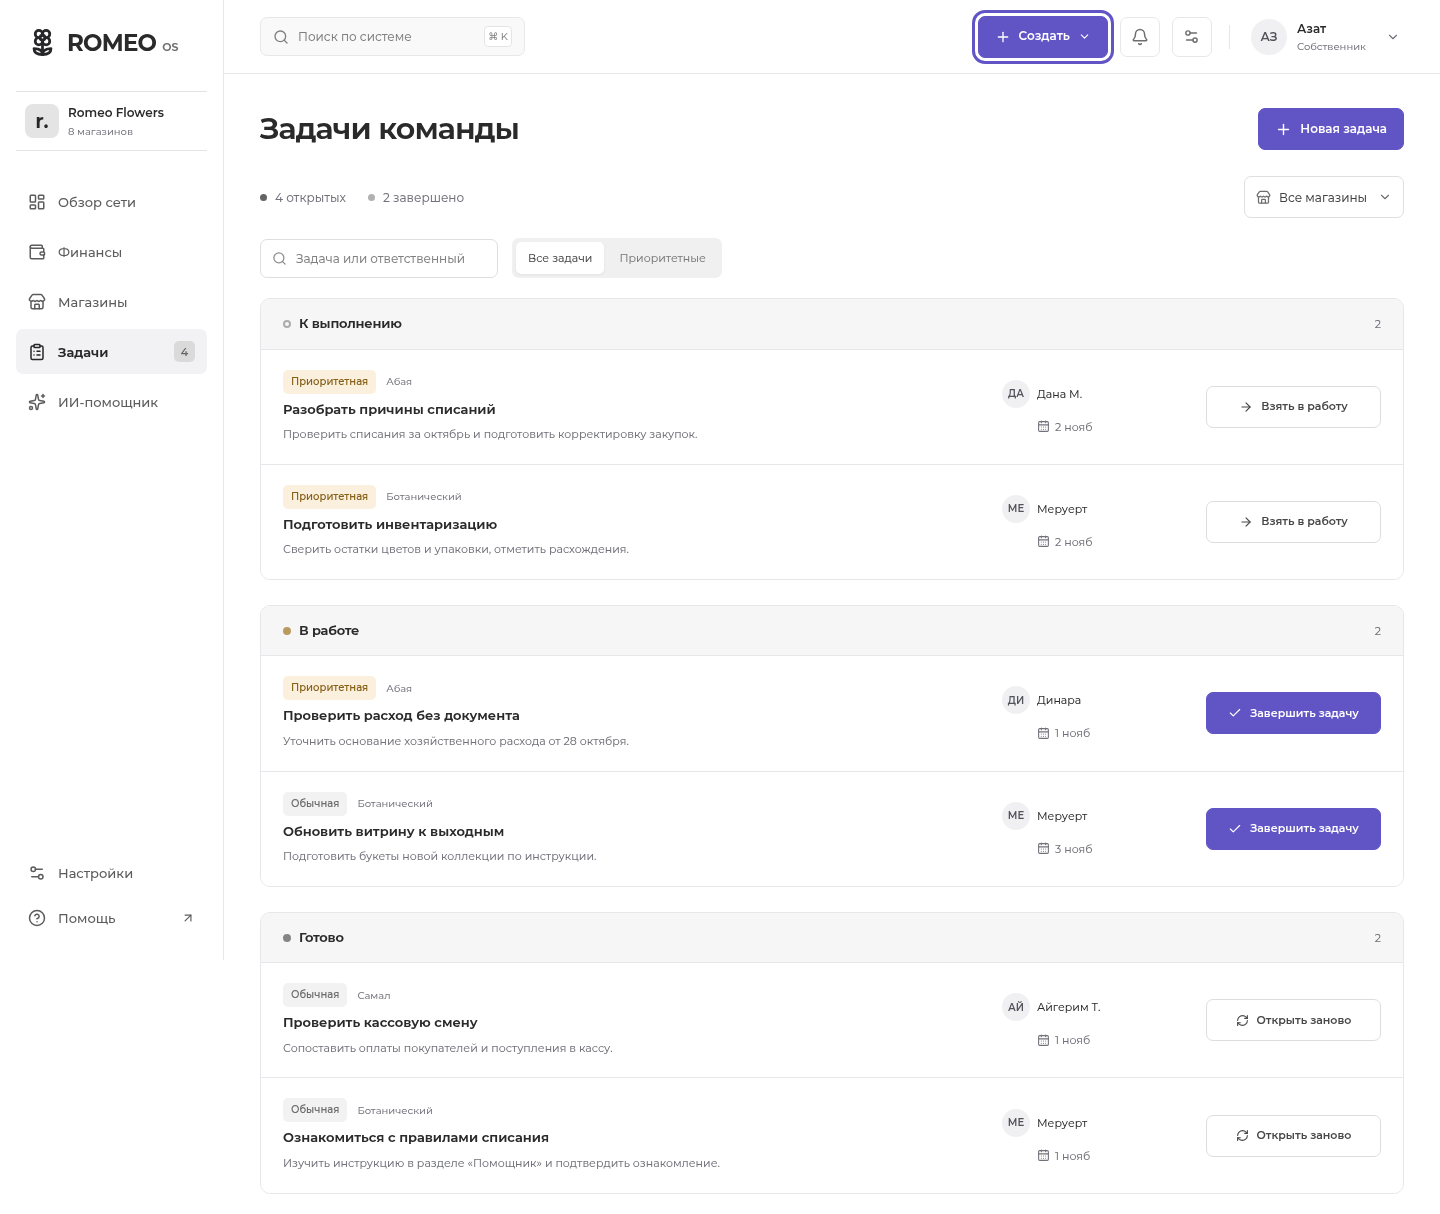
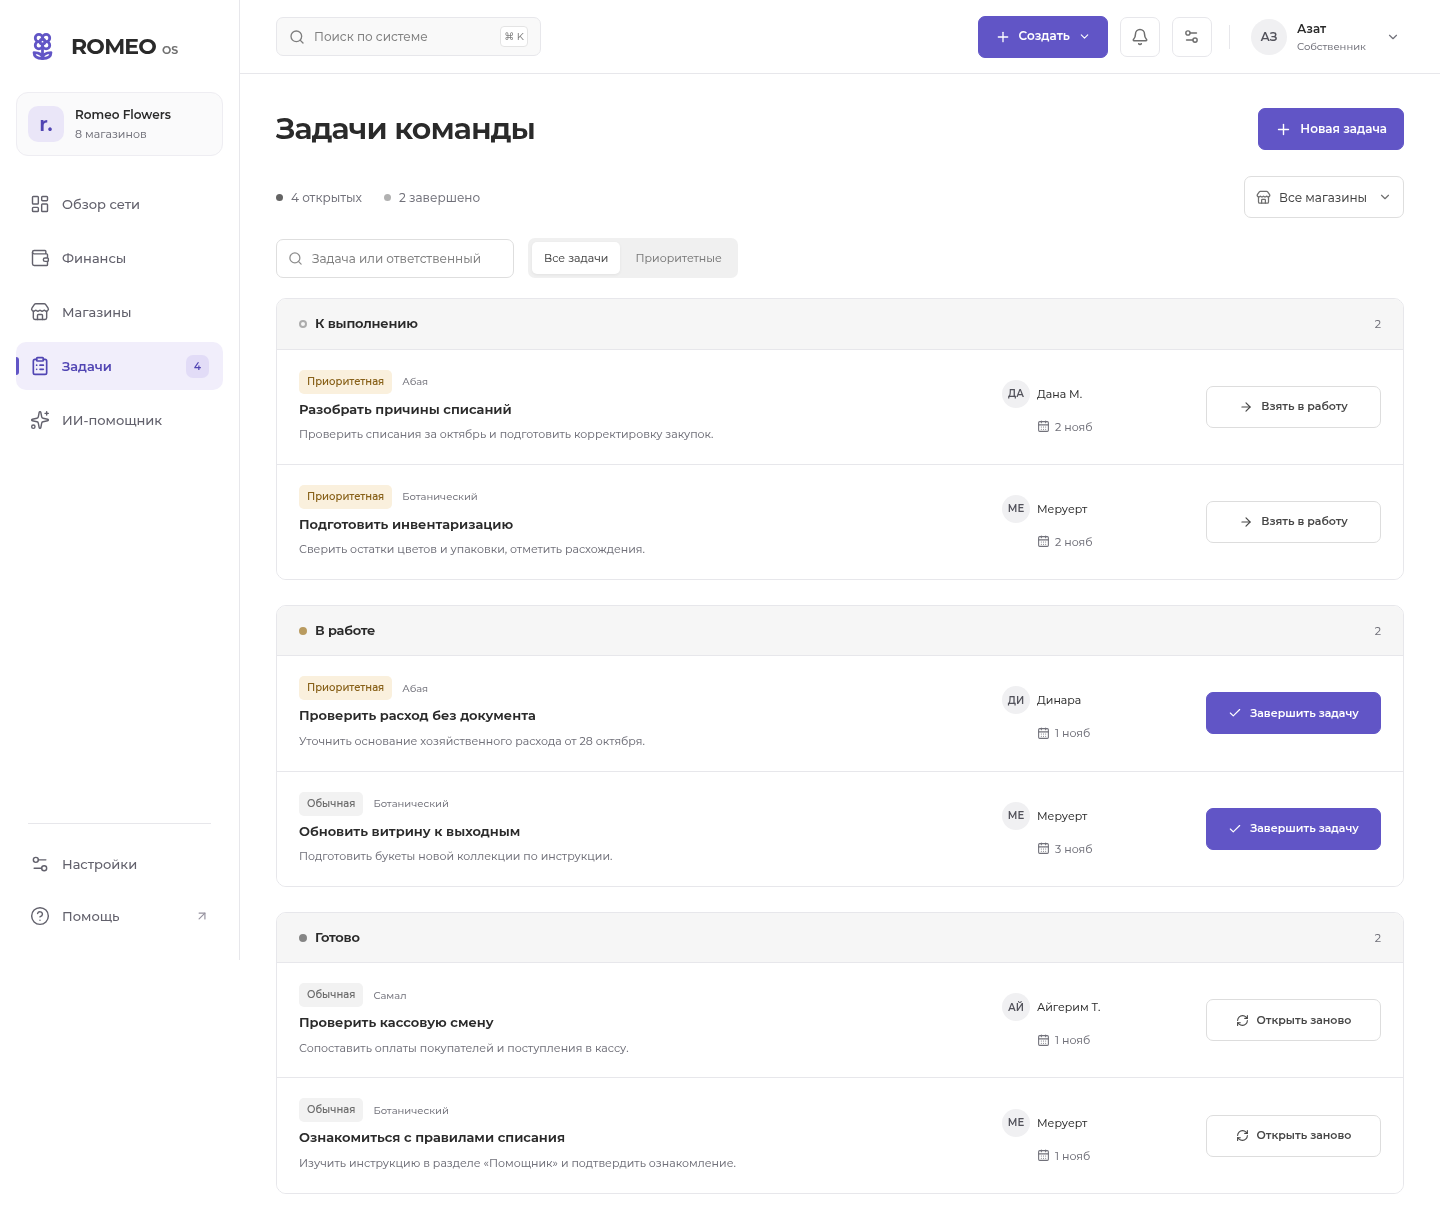
Refine sidebar with soft violet selection and clearer spacing

diff --git a/src/design-system.css b/src/design-system.css
@@ -13,6 +13,7 @@
   --action: #6155c6;
   --action-hover: #5145b3;
   --action-pressed: #443995;
+  --action-soft: #f1eefb;
   --line: #e7e7eb;
   --green: #545454;
   --orange: #926525;
@@ -126,12 +127,12 @@ select {
   min-height: 100vh;
 }
 .sidebar {
-  width: 224px;
+  width: 240px;
   position: fixed;
   inset: 0 auto 0 0;
   display: flex;
   flex-direction: column;
-  padding: 28px 16px 20px;
+  padding: 24px 16px 20px;
   border-right: 1px solid var(--line);
   background: #fff;
   z-index: 50;
@@ -140,15 +141,21 @@ select {
 .brand {
   display: flex;
   align-items: center;
-  gap: 10px;
-  padding: 0 12px;
-  font-size: 23px;
+  gap: 11px;
+  min-height: 44px;
+  padding: 0 8px;
+  border-radius: 10px;
+  font-size: 22px;
   font-weight: 700;
   letter-spacing: -0.8px;
 }
 .brand-symbol {
-  color: var(--accent);
+  color: var(--action);
   display: flex;
+  align-items: center;
+  justify-content: center;
+  width: 36px;
+  height: 40px;
 }
 .brand-os {
   font-size: 11px;
@@ -160,11 +167,12 @@ select {
 .workspace-switch {
   display: flex;
   align-items: center;
-  gap: 9px;
-  margin: 34px 0 28px;
-  padding: 12px 9px;
-  border-top: 1px solid #e3e3e3;
-  border-bottom: 1px solid #e3e3e3;
+  gap: 11px;
+  margin: 24px 0;
+  padding: 13px 11px;
+  border: 1px solid #eeedf2;
+  border-radius: 12px;
+  background: #fafafb;
 }
 .workspace-switch > span:nth-child(2) {
   min-width: 0;
@@ -178,7 +186,7 @@ select {
 }
 .workspace-switch small {
   display: block;
-  font-size: 10px;
+  font-size: 11px;
   color: var(--muted);
   margin-top: 5px;
 }
@@ -199,6 +207,13 @@ select {
   font-weight: 650;
   flex-shrink: 0;
 }
+.workspace-flower {
+  background: #eae6f8;
+  color: var(--action-hover);
+  border-radius: 10px;
+  width: 36px;
+  height: 36px;
+}
 .nav-caption {
   font-size: 10px;
   font-weight: 600;
@@ -209,32 +224,58 @@ select {
 }
 .sidebar nav {
   display: grid;
-  gap: 5px;
+  gap: 6px;
 }
 .nav-item {
+  position: relative;
   display: flex;
   align-items: center;
   gap: 12px;
-  min-height: 45px;
-  padding: 10px 12px;
+  min-height: 48px;
+  padding: 12px 14px;
   width: 100%;
-  border-radius: 7px;
+  border-radius: 10px;
   text-align: left;
-  color: #5c5c5c;
+  color: #62616c;
   font-size: 13px;
   font-weight: 500;
+  transition:
+    background 0.15s,
+    color 0.15s;
+}
+.nav-item > svg:first-child {
+  width: 20px;
+  height: 20px;
+  stroke-width: 1.7;
 }
 .nav-item > span:nth-child(2) {
   flex: 1;
 }
 .nav-item:hover {
-  background: #eaeaea;
+  background: #f6f5f9;
   color: var(--ink);
 }
 .nav-item.active {
-  background: #f2f2f4;
-  color: #27272a;
-  font-weight: 650;
+  background: var(--action-soft);
+  color: var(--action-hover);
+  font-weight: 600;
+}
+.nav-item.active::before {
+  content: "";
+  position: absolute;
+  left: 0;
+  top: 15px;
+  bottom: 15px;
+  width: 3px;
+  border-radius: 0 3px 3px 0;
+  background: var(--action);
+}
+.nav-item.active > svg:first-child {
+  stroke-width: 2;
+}
+.sidebar button:focus-visible {
+  outline-color: var(--action);
+  outline-offset: 2px;
 }
 .nav-count,
 .ai-tag,
@@ -252,8 +293,17 @@ select {
   font-size: 11px;
   font-weight: 550;
 }
+.nav-item .nav-count {
+  min-width: 23px;
+  height: 23px;
+  border-radius: 7px;
+  background: #efedf4;
+  color: #62616c;
+  font-variant-numeric: tabular-nums;
+}
 .nav-item.active .nav-count {
-  background: #dadada;
+  background: #e2dcf7;
+  color: var(--action-hover);
 }
 .ai-tag {
   font-size: 10px;
@@ -262,11 +312,22 @@ select {
 }
 .sidebar-bottom {
   margin-top: auto;
-  padding-top: 24px;
+  padding-top: 20px;
+  display: grid;
+  gap: 4px;
+}
+.sidebar-bottom::before {
+  content: "";
+  height: 1px;
+  background: var(--line);
+  margin: 0 12px 12px;
+}
+.sidebar-bottom .nav-item > svg:last-child:not(:first-child) {
+  color: #96929f;
 }
 
 .main-shell {
-  margin-left: 224px;
+  margin-left: 240px;
   min-width: 0;
 }
 .topbar {
@@ -2249,12 +2310,12 @@ tbody tr:hover {
 }
 @media (max-width: 1200px) {
   .sidebar {
-    width: 205px;
+    width: 220px;
     padding-left: 12px;
     padding-right: 12px;
   }
   .main-shell {
-    margin-left: 205px;
+    margin-left: 220px;
   }
   .topbar {
     padding: 12px 26px;
@@ -2355,13 +2416,18 @@ tbody tr:hover {
 @media (max-width: 800px) {
   .sidebar {
     transform: translateX(-100%);
-    width: 254px;
+    visibility: hidden;
+    width: 272px;
+    max-width: calc(100vw - 56px);
     padding: 26px 18px;
-    transition: transform 0.2s;
+    transition:
+      transform 0.2s,
+      visibility 0.2s;
     z-index: 80;
   }
   .sidebar.open {
     transform: translateX(0);
+    visibility: visible;
   }
   .mobile-scrim {
     position: fixed;
@@ -3095,9 +3161,6 @@ tbody tr:hover {
 }
 .overview-filterbar {
   justify-content: flex-start;
-}
-.sidebar-bottom {
-  padding-top: 24px;
 }
 main {
   padding-top: 34px;
